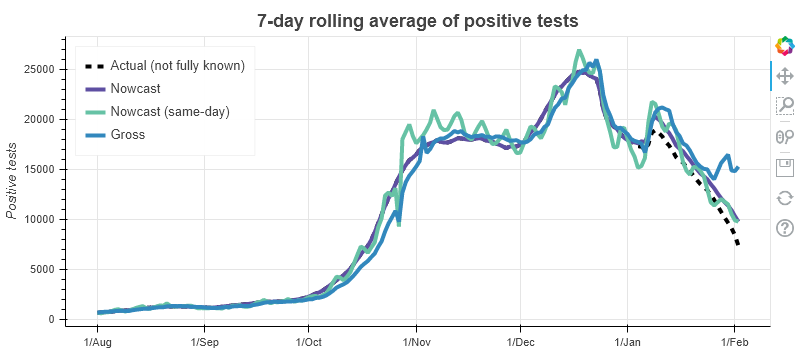
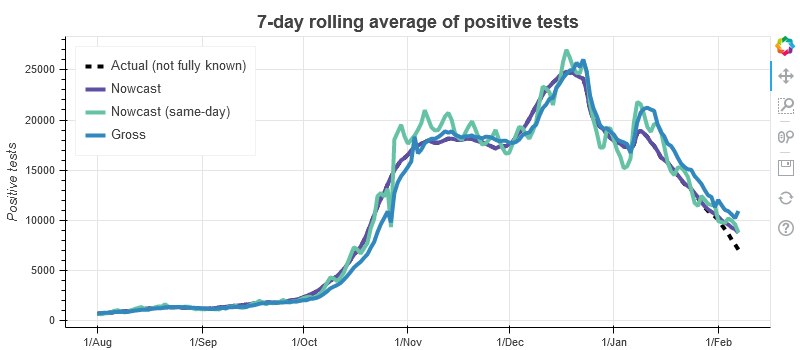
More timezone issues

diff --git a/covid_19/pandasutils.py b/covid_19/pandasutils.py
@@ -2,14 +2,15 @@ import datetime
 import pandas as pd
 
 
-def filter_data_frame(data_frame: pd.DataFrame, first_date: datetime.date, last_date: datetime.date = None) -> pd.DataFrame:
+def filter_data_frame(data_frame: pd.DataFrame, first_date: datetime.date,
+                      last_date: datetime.date = None) -> pd.DataFrame:
     if last_date is None:
         return data_frame[first_date.strftime("%Y-%m-%d"):first_date.strftime("%Y-%m-%d")]
     return data_frame[first_date.strftime("%Y-%m-%d"):last_date.strftime("%Y-%m-%d")]
 
 
 def filter_series(ds: pd.Series, first_date: datetime.date, last_date: datetime.date) -> pd.DataFrame:
-    if isinstance(first_date, datetime.date) and isinstance(last_date, datetime.date):
+    if not isinstance(first_date, datetime.datetime) and not isinstance(last_date, datetime.datetime):
         return ds[list(
             filter(lambda x: last_date + datetime.timedelta(days=1) > x > first_date - datetime.timedelta(days=1),
                    ds.index))]
@@ -30,3 +31,7 @@ def filter_series(ds: pd.Series, first_date: datetime.date, last_date: datetime.
     if hasattr(ds.index.tz, 'zone'):
         if ds.index.tz.zone != "UTC":
             ds = ds.tz_localize(datetime.timezone.utc)
+
+    return ds[list(
+        filter(lambda x: last_date + datetime.timedelta(days=1) > x > first_date - datetime.timedelta(days=1),
+               ds.index))]
